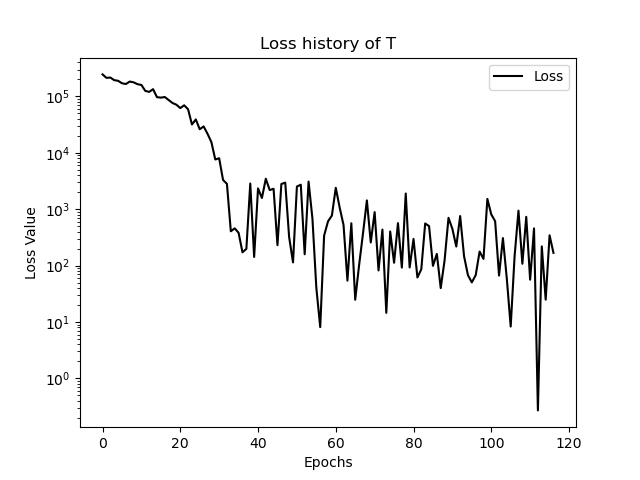
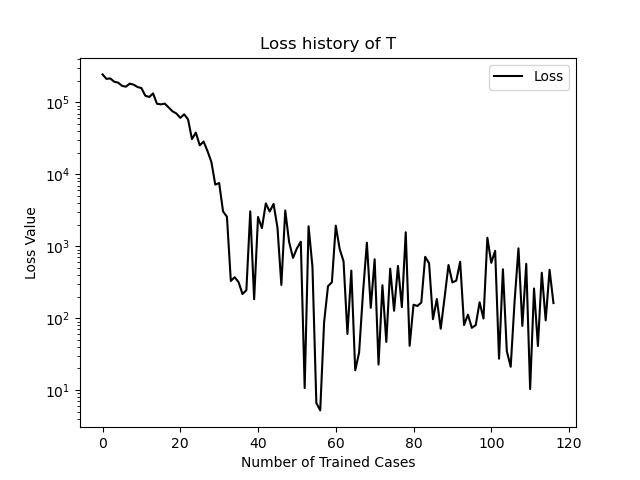
train.py and fnn_main.py both improved

diff --git a/FNN/Common/Regression.py b/FNN/Common/Regression.py
@@ -292,10 +292,10 @@ class Regression(nn.Module):
   # 打印损失函数
   def saveLossHistory2PNG(self, outDir:Path)->None:
     df = pandas.DataFrame(self.progress, columns=["Loss"])
-    ax = df.plot( title  = f"Loss history of {self.varName}", \
-                  color  = "black",             \
-                  xlabel = "Epochs",            \
-                  ylabel = "Loss Value",        \
+    ax = df.plot( title  = f"Loss history of {self.varName}",
+                  color  = "black",
+                  xlabel = "Number of Trained Cases",
+                  ylabel = "Loss Value",
                   logy   = True)
     outFile = outDir.joinpath(f"lossHistory_{self.varName}.png")
     ax.figure.savefig(outFile)

diff --git a/FNN/FNN_main.py b/FNN/FNN_main.py
@@ -32,8 +32,12 @@ h5.close()
 # train the fields one has assigned, which must belong in
 # ["P", "T", "U", "V", "W"]
 
-varFields = ["T", "P", "U", "V", "W"]
-epochList = [3, 3, 2, 3, 2]
+#varFields = ["T", "P", "U", "V", "W"]
+#epochList = [3, 3, 2, 3, 2]
+varFields = ["T", "P", "V"]
+epochList = [3, 4, 5]
+
+print(f"*Fields {varFields} Will Be Model with Epochs {epochList}.")
 
 iSuccess = train( epochList = epochList,
                   fields    = varFields ,

diff --git a/FNN/train.py b/FNN/train.py
@@ -69,7 +69,6 @@ def train(epochList:list, fields:list, trainSet:list, testSet:list )->bool:
     # 1-predict first and then write the predicting data to h5 database
     # coordinates are optional
 
-
     # the coordinates need to write only one time
     if ifield == 0:
       R.write2HDF(inp, Path("./fnn.h5"), coords=coords)
